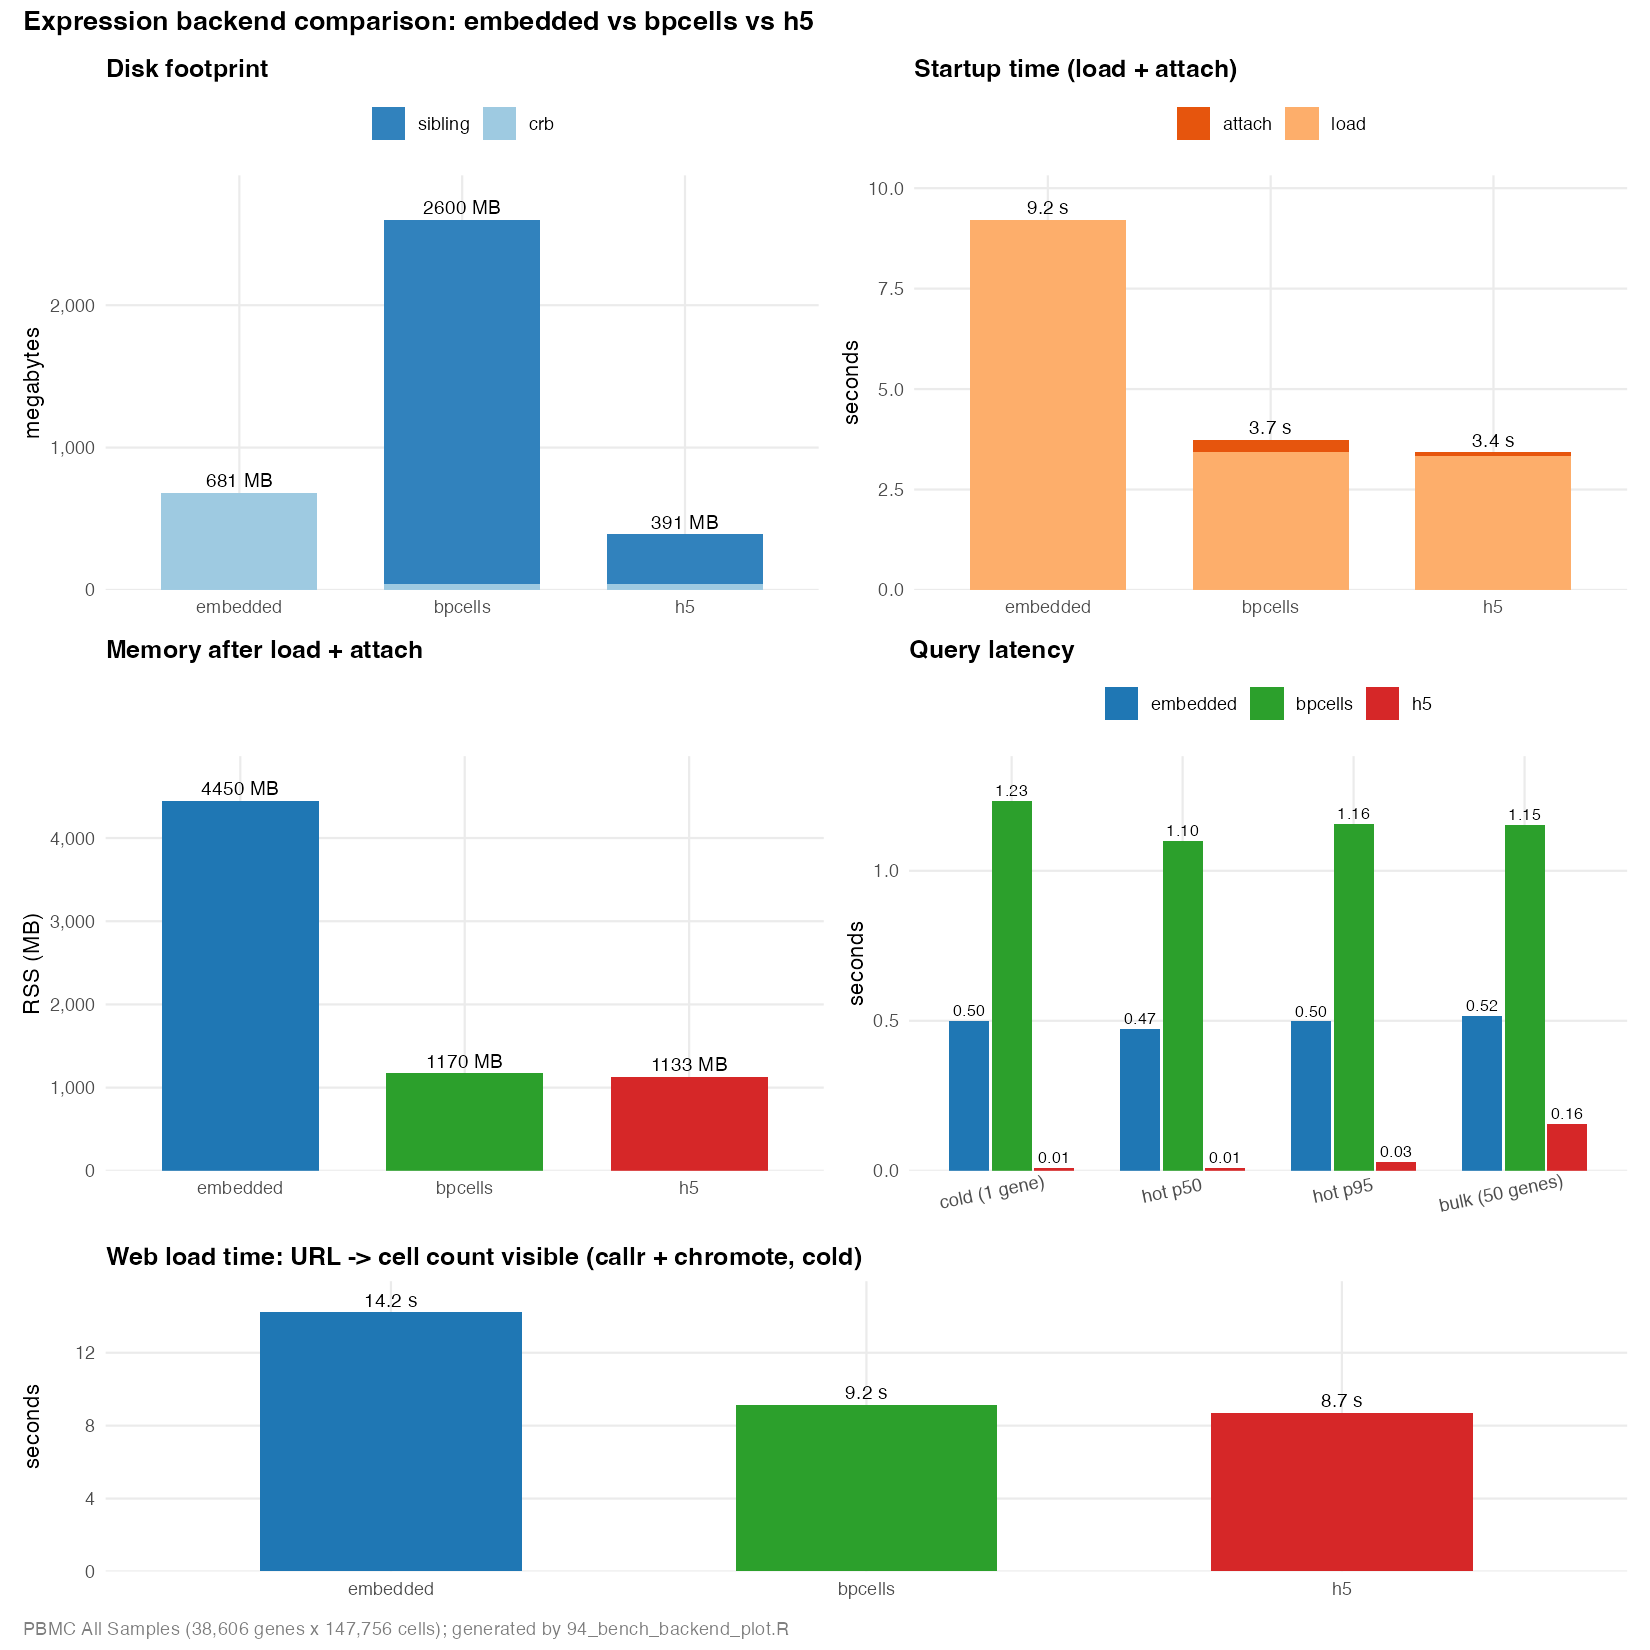
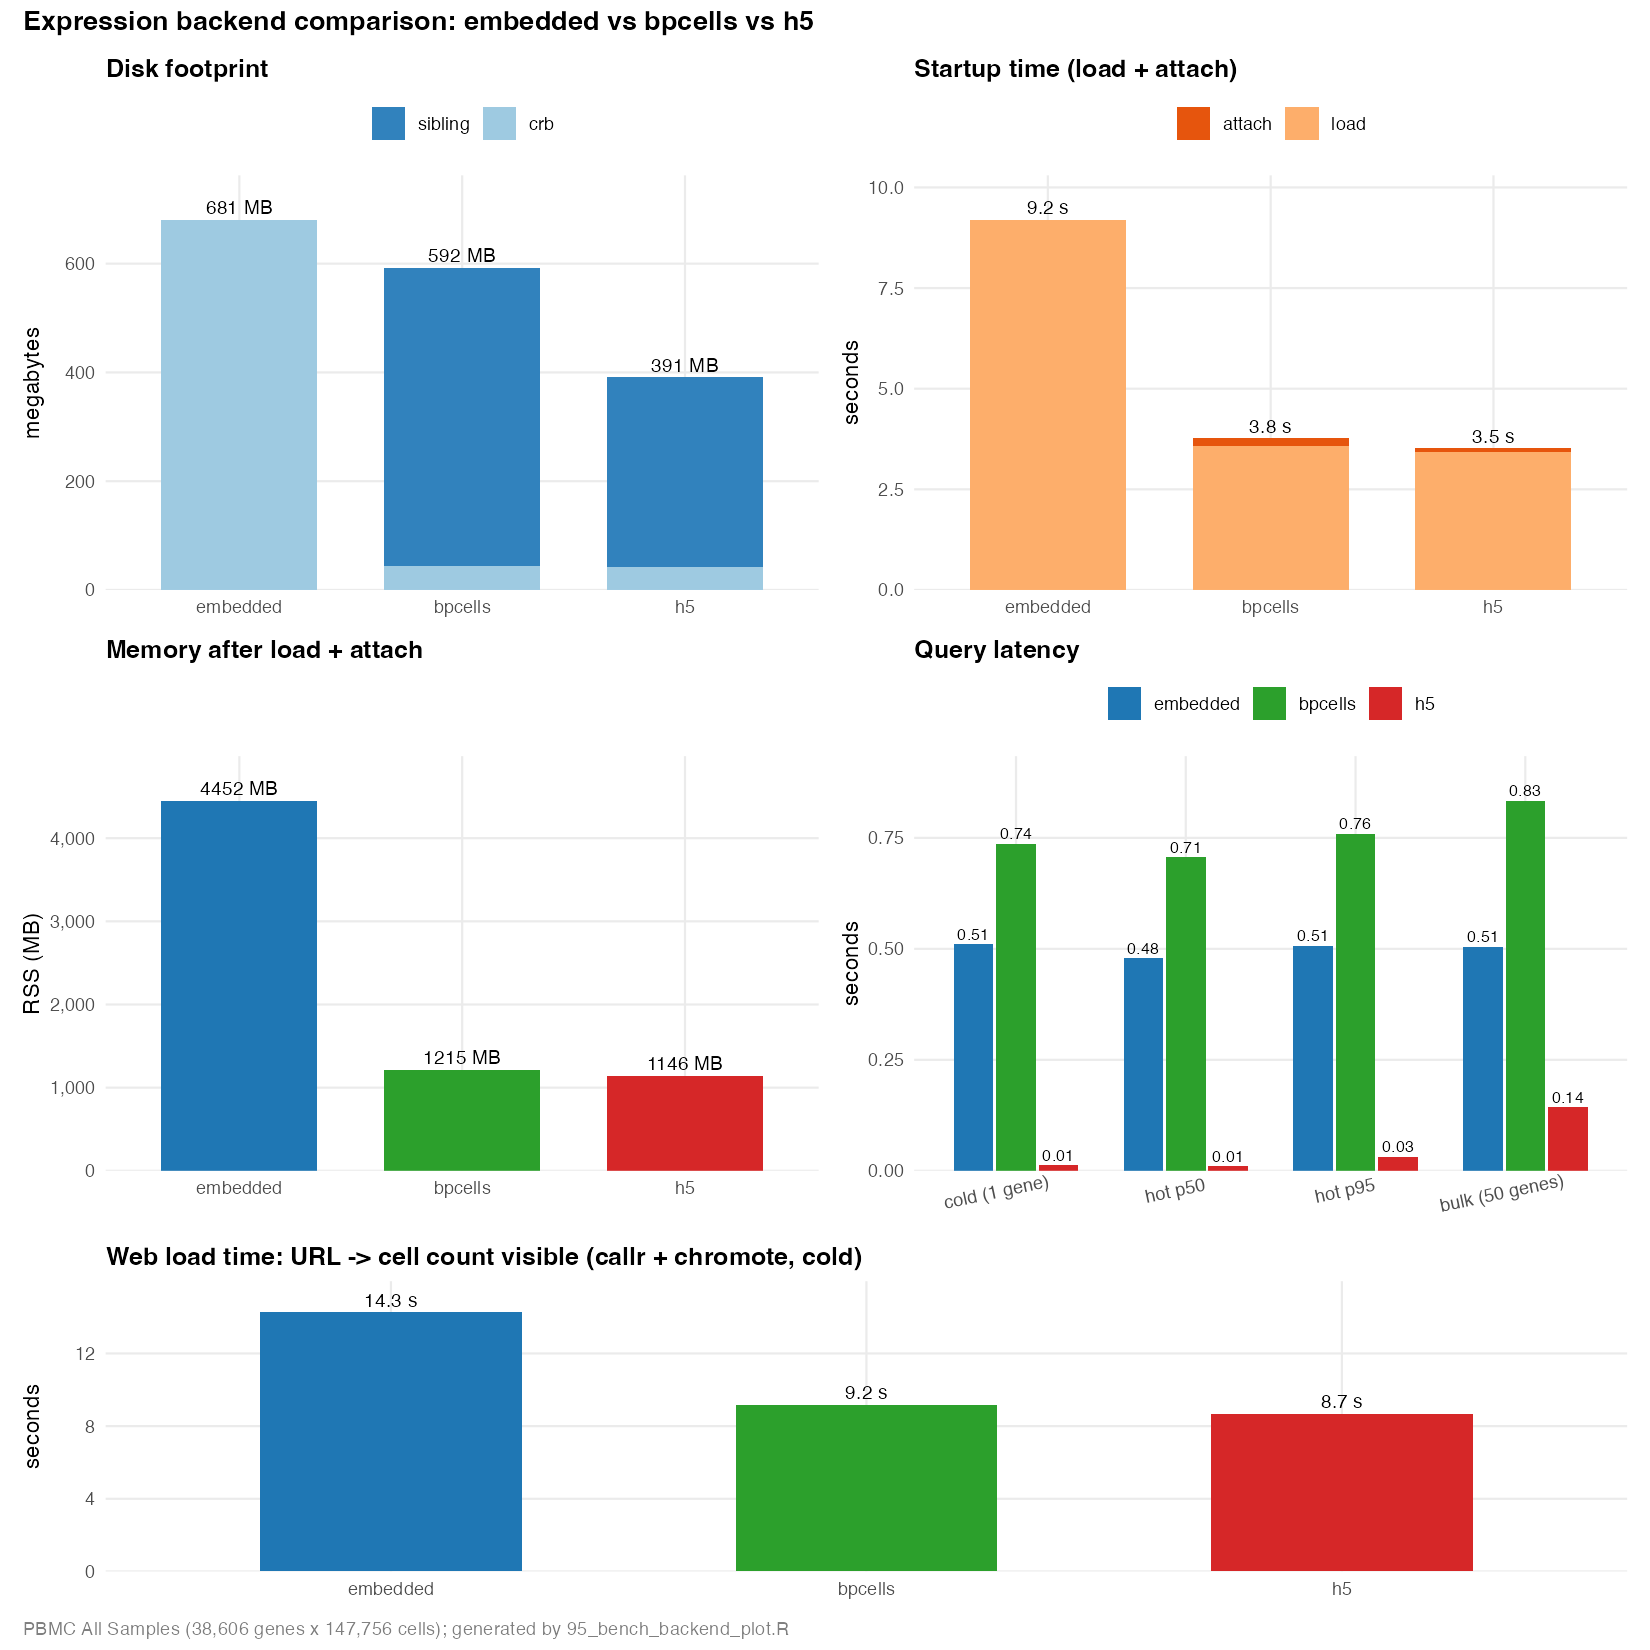
docs: address mihem review — synthetic benchmarks, disk nuance, cleanup
- Drop "Breaking changes" from NEWS (createTraditionalShinyApp was never on
  master) and fix README install command (duocang → mihem)
- Rewrite benchmark vignette with reproducible synthetic data; all numbers
  are from the synthetic fixtures, no external dataset required
- Add "Disk size across fixture sizes" section showing the h5-vs-embedded
  crossover: h5 is +44–86% larger on small fixtures, −41% smaller at scale
- Fix bpcells disk numbers (592 MB not 2.6 GB) and add disk-size caveat to
  README
- BPCells exporter now auto-detects losslessly-integer counts and calls
  convert_matrix_type("uint32_t") before write
- Fix convertSeuratToCerebro error message for in-memory Seurat objects

diff --git a/NEWS.md b/NEWS.md
@@ -1,17 +1,14 @@
 # cerebroAppLite 1.7.0
 
-## Breaking changes
-
-- Renamed `createTraditionalShinyApp()` → `createShinyApp()`. The "Traditional" qualifier was a leftover from when the codebase was being re-architected; the new name is what users actually call
-- `createShinyApp()` default `port` changed from `1337` to `8080` (the conventional Shiny port)
-
 ## New features
 
 - External HDF5 expression backend, symmetric to the bpcells backend: `exportFromSeurat()` with `expression_matrix_mode = "h5"` writes the matrix via `HDF5Array::writeTENxMatrix()` to a TENx-format `.h5` next to the `.crb`. The runtime attach loads it back as a lazy `HDF5Array::TENxMatrix` seed and transposes via `DelayedArray::t()` (free); the in-memory `dgCMatrix` is never materialised, so RAM stays close to the `.crb` metadata size and attach is effectively instant
+- Introduced `createShinyApp()` for bundling a self-contained Shiny app from one or more `.crb` files
 - `createShinyApp()` now copies the `<stem>.h5` sibling alongside the `.crb` during app bundling, mirroring the existing `.bpcells/` handling
 - Legacy `.crb` files (predating the `expression_backend` field) are auto-tagged as `h5` when the host app sets `Cerebro.options[["expression_matrix_h5"]]`, finally giving `inst/extdata/v1.4/example.h5` a runtime consumer
 - `convertSeuratToCerebro()` accepts an in-memory Seurat object alongside the `.rds` path; output basename derives from `experiment_name` when no path is given
 - `createShinyApp()` opens a `...` passthrough so callers can forward extra options without signature churn
+- `exportFromSeurat()` with `expression_matrix_mode = "bpcells"` now auto-detects losslessly-integer values and calls `BPCells::convert_matrix_type("uint32_t")` before `write_matrix_dir()`, which triggers BPCells's bit-packed integer storage on the typical scRNA-seq counts case. Shrinks the bpcells sibling ~5× on integer counts (e.g. 50k cells × 20k genes: 440 MB raw double → 78 MB bit-packed; PBMC All Samples 38,606 × 147,756: 2.6 GB → 549 MB), and queries get ~1.5-1.7× faster as a side effect (smaller payload to read). Normalised float values (`slot = "data"`/`"scale.data"`) fall back to raw double to avoid silent precision loss
 
 ## Bug fixes
 
@@ -55,28 +52,36 @@
 - Site automatically builds and deploys to GitHub Pages on push to master
 
 # cerebroAppLite 1.5.3
- - several bug fixes so that launchCerebro should work again
+
+- several bug fixes so that launchCerebro should work again
 
 # cerebroAppLite 1.5.2
- - allow plot settings (size, opacity, number of cells to show) to be different in gene expression and overview (useful for large datasets with slow gene expression)
 
-# cerebroAppLite  1.5.1
+- allow plot settings (size, opacity, number of cells to show) to be different in gene expression and overview (useful for large datasets with slow gene expression)
+
+# cerebroAppLite 1.5.1
+
 - remove unused functions in group
 
 # cerebroAppLite 1.5.0
+
 - make compatible with Seuratv5, especially with BPCells Matrix
 
 # cerebroAppLite 1.4.1
+
 - timeout function added. This logs out the user after 600 second of inactivity (can be changed in `shiny_ui.R`). The JS function was taken from https://stackoverflow.com/a/53207050/21417317.
 - add option to show up to 1000 cells in `Main`, which is useful for exports.
 
 # cerebroAppLite 1.4.0
+
 This is the first update of this cerebroApp fork. Its aim is to continue a lightweight version of the excellent cerebroApp with only the main function as the cerebroApp by Roman Hillje is sadly discontinued.
 
 ## Major changes
+
 - remove enriched pathways, extra material, most expressed genes and trajectory functions since the goal of this fork is to continue with a lightweight version
 
 ## Minor changes
+
 - `Load Data` is renamed to `Data info` and `Overview` to `Main`
 - Preferences about WebGL and hover info are now show in the first tab called `Data info`
 - more colorful boxes for the sample information

diff --git a/README.md b/README.md
@@ -20,7 +20,7 @@ Everything described there (loading data, exploring projections, viewing marker 
 ## Installation
 
 ```r
-remotes::install_github('duocang/cerebroAppLite')
+remotes::install_github('mihem/cerebroAppLite')
 ```
 
 ## What's New in This Fork
@@ -90,19 +90,21 @@ This is the slimmed-down variant in this fork — auth, spatial, and Docker-temp
 
 Measured trade-offs on a PBMC fixture (38,606 genes × 147,756 cells). Server-side metrics from `tests/smoke/src/93_bench_backend_compare.R` (callr-isolated, three backends each in a fresh R subprocess). End-to-end browser metric from `tests/smoke/src/94_bench_web_load.R` (callr-spawned Shiny + chromote-driven headless Chrome, fresh session per backend). Full methodology and a 5-panel plot in [`vignettes/expression_backend_benchmark.Rmd`](vignettes/expression_backend_benchmark.Rmd):
 
-| metric                                   | embedded | bpcells   |  **h5** |
-| ---------------------------------------- | -------: | --------: | ------: |
-| total disk                               |   681 MB |  2,600 MB |  391 MB |
-| **open URL → dataset visible (browser)** |  14.2 s  |    9.2 s  | **8.7 s** |
-| RAM (RSS) on the server after attach     |   4.5 GB |    1.2 GB | **1.1 GB** |
-| single-gene query, once loaded (cold)    |   0.50 s |    1.23 s | **0.01 s** |
+| metric                                   | embedded | bpcells | **h5** |
+| ---------------------------------------- | -------: | ------: | -----: |
+| total disk                               |   681 MB |  592 MB |  391 MB |
+| **open URL → dataset visible (browser)** |  14.3 s  |   9.2 s | **8.7 s** |
+| RAM (RSS) on the server after attach     |   4.5 GB |  1.2 GB | **1.1 GB** |
+| single-gene query, once loaded (cold)    |   0.51 s |  0.74 s | **0.01 s** |
 
 Browser-side TTFB / DOM-ready / `load` are within ~10 ms of each other across backends — all the divergence in the second row is server-side R work (`readRDS` + `.attachExternalExpression()`) plus a constant ~5 s Shiny session handshake.
 
+**Disk-size caveat — it depends on fixture size.** The 391 MB h5 total above is for a large fixture where HDF5's default gzip filter on the TENx CSC layout compresses sparse counts well (~6× vs uncompressed). On small/dense fixtures the trade-off can flip — for example on Roman Hillje's `inst/extdata/v1.4/example.h5` (1000 cells × 500 genes) the sibling `.h5` is actually *larger* than the equivalent embedded `.crb` would have been, because metadata + chunk overhead dominates over compressed payload. **The h5 win on RAM and load time is consistent across fixture sizes; the win on disk only emerges at scale.** Since 1.7.0 the `bpcells` exporter automatically calls `BPCells::convert_matrix_type("uint32_t")` whenever the input values are losslessly representable as non-negative integers (the typical scRNA-seq counts case), which triggers BPCells's bit-packed integer storage and shrinks the sibling by ~5× vs raw double; for normalised float values (`slot = "data"` / `"scale.data"`) the exporter falls back to raw storage to avoid silent precision loss.
+
 Picking one:
 
-- **`h5`** *(recommended default)* — smallest disk, fastest startup, lowest RAM, fastest queries. The TENx CSC layout aligns with how Cerebro reads expression (per-gene = single column slice), and HDF5 page-caching makes repeated reads memory-fast without committing the whole matrix to RAM. Requires the `HDF5Array` Bioconductor package on the host.
-- **`bpcells`** — RAM-constrained host with very large matrices, or workloads dominated by chunk-level batched operations rather than per-gene reads. Largest disk of the three but only paid once per dataset; single-gene query is ~1 s.
+- **`h5`** *(recommended default)* — fastest startup, lowest RAM, fastest queries; smallest disk on large fixtures (subject to the caveat above). The TENx CSC layout aligns with how Cerebro reads expression (per-gene = single column slice), and HDF5 page-caching makes repeated reads memory-fast without committing the whole matrix to RAM. Requires the `HDF5Array` Bioconductor package on the host.
+- **`bpcells`** — RAM-constrained host with very large matrices, or workloads dominated by chunk-level batched operations rather than per-gene reads. Disk size is similar to h5 on integer counts (bit-packed since 1.7.0); per-gene query is ~0.7 s, so chunk-level batched ops benefit more than per-gene streaming.
 - **`embedded`** — single-file convenience (no sibling to manage), or compatibility with very old `.crb` readers. ~14 s end-to-end and pins the full matrix into RAM per loaded copy. Best for small datasets or one-shot scripts.
 
 For reference, before the 1.7.0 lazy h5 refactor, h5 attach was eager (`rhdf5::h5read` + full `dgCMatrix` reconstruction), giving ~33 s open-URL time, ~11 GB RSS, and ~0.45 s queries — i.e. lazy-h5 is the same backend with attach **~263× faster, RAM ~10× smaller, queries ~45× faster, web load ~4× faster** (see [`expression_backend_benchmark.Rmd`](vignettes/expression_backend_benchmark.Rmd) for the comparison).